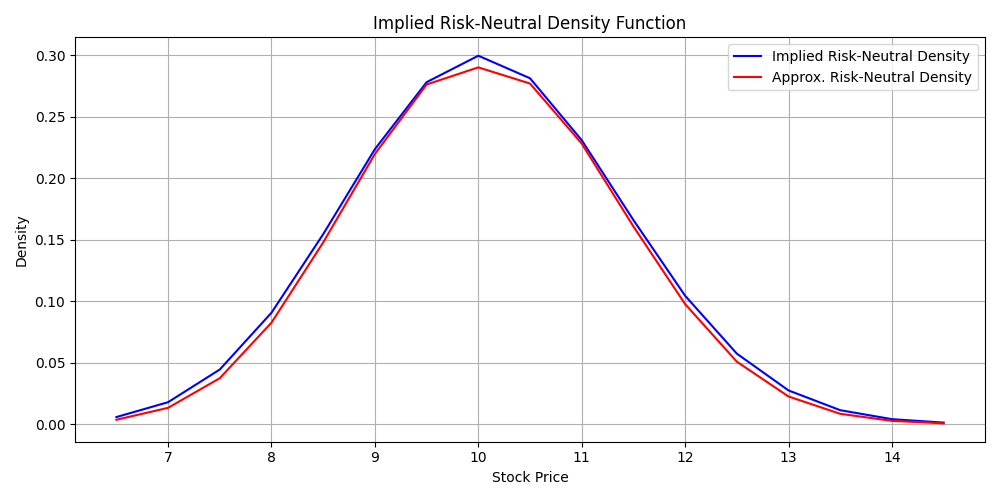
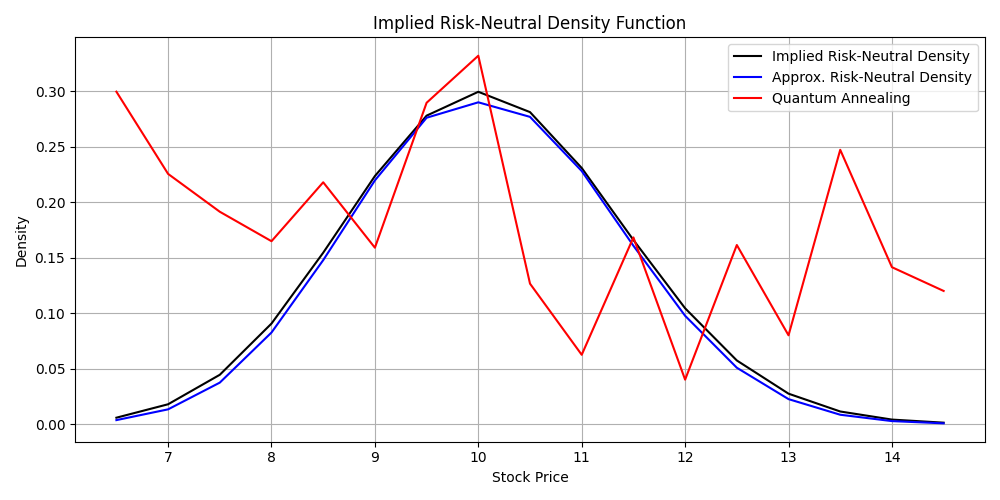
fixes to work with simulated annealing

diff --git a/quantum_arbitrage/solvers/dwave_solver.py b/quantum_arbitrage/solvers/dwave_solver.py
@@ -1,16 +1,16 @@
 import numpy as np
 import pandas as pd
 from dwave.samplers import SimulatedAnnealingSampler
+from tqdm import tqdm
 
 from quantum_arbitrage.solvers.dwaveutils.dwaveutils import bl_lstsq
 from quantum_arbitrage.solvers.dwaveutils.dwaveutils.utils import Binary2Float
 
 
-def solve_qubo(Dimension, qubits, A, b):
-    # 6 qubits with integer solutions
-    # x1 = q1 + 2q2 - 4q3
-    # x = {{-1}, {2}}
-    # mininum -26
+def solve_qubo(Dimension, qubits, A, b, true_x, scale):
+    A = [[col * scale for col in row] for row in A]
+    b = [el * scale for el in b]
+    true_x = [el * scale for el in true_x]
 
     QM = np.zeros(((qubits + 1) * Dimension, (qubits + 1) * Dimension))
     ### Linear terms ###
@@ -26,8 +26,9 @@ def solve_qubo(Dimension, qubits, A, b):
                 po1 = (qubits + 1) * i + l
                 QM[po1][po1] = QM[po1][po1] + cef1 - cef2
 
+    print('Generating first quadratic term...')
     ### First quadratic term ###
-    for k in range(Dimension):
+    for k in tqdm(range(Dimension)):
         for i in range(Dimension):
             for l in range(qubits):
                 qcef = pow(2, l + qubits + 1) * pow(A[k][i], 2)
@@ -41,8 +42,9 @@ def solve_qubo(Dimension, qubits, A, b):
                     po2 = (qubits + 1) * i + l2
                     QM[po1][po2] = QM[po1][po2] + qcef
 
+    print('\n\nGenerating second quadratic term...')
     ### Second quadratic term ###
-    for k in range(Dimension):
+    for k in tqdm(range(Dimension)):
         for i in range(Dimension - 1):
             for j in range(i + 1, Dimension):
                 qcef = pow(2, 2 * qubits + 1) * A[k][i] * A[k][j]
@@ -64,85 +66,41 @@ def solve_qubo(Dimension, qubits, A, b):
                         po2 = (qubits + 1) * j + l2
                         QM[po1][po2] = QM[po1][po2] + qcef
 
-    # Print Matrix Q
-    print("# Matrix Q is")
-    print(QM)
-    print("\nMinimum energy is ", -np.dot(b, b))
-    print("\n")
-
-    # Print Python code for the run in D-Wave quantum processing unit
-    print("Running code for D-Wave:\n")
-    print("from dwave.system import DWaveSampler, EmbeddingComposite")
-    print("sampler_auto = EmbeddingComposite(DWaveSampler(solver={'qpu': True}))\n")
-    print("linear = {", end="")
-    for i in range((qubits + 1) * Dimension - 1):
-        linear = i + 1
-        print("('q", linear, "','q", linear, "'):", format(QM[i][i]), sep='', end=", ")
-    print("('q", (qubits + 1) * Dimension, "','q", (qubits + 1) * Dimension, "'):",
-          format(QM[(qubits + 1) * Dimension - 1][(qubits + 1) * Dimension - 1]), "}", sep='')
-
-    print("\nquadratic = {", end="")
-    for i in range((qubits + 1) * Dimension - 1):
-        for j in range(i + 1, (qubits + 1) * Dimension):
-            qdrt1 = i + 1
-            qdrt2 = j + 1
-            if i == (qubits + 1) * Dimension - 2 and j == (qubits + 1) * Dimension - 1:
-                print("('q", qdrt1, "','q", qdrt2, "'):", format(QM[i][j]), "}", sep='')
-            else:
-                print("('q", qdrt1, "','q", qdrt2, "'):", format(QM[i][j]), sep='', end=", ")
-
-    print("\nQ = dict(linear)")
-    print("Q.update(quadratic)\n")
-
-    qa_iter = 1000
-    print("sampleset = sampler_auto.sample_qubo(Q, num_reads=", qa_iter, ")", sep="")
-    print("print(sampleset)")
-
     # sampler_auto = EmbeddingComposite(DWaveSampler(solver={'qpu': True}))
     sampler_auto = SimulatedAnnealingSampler()
 
-    linear = {('q1', 'q1'): 26.0, ('q2', 'q2'): 72.0, ('q3', 'q3'): 96.0, ('q4', 'q4'): -13.0, ('q5', 'q5'): -16.0,
-              ('q6', 'q6'): 152.0}
+    Q = {}
+    epsilon = 1e-10  # tiny bias to force inclusion
+    for i in range(QM.shape[0]):
+        # add linear term, if zero add epsilon
+        val = QM[i][i]
+        if val == 0:
+            val = epsilon
+        Q[(f'q{i}', f'q{i}')] = val
+        for j in range(i + 1, QM.shape[1]):
+            if QM[i][j] != 0:
+                Q[(f'q{i}', f'q{j}')] = QM[i][j]
 
-    quadratic = {('q1', 'q2'): 40.0, ('q1', 'q3'): -80.0, ('q1', 'q4'): 2.0, ('q1', 'q5'): 4.0, ('q1', 'q6'): -8.0,
-                 ('q2', 'q3'): -160.0, ('q2', 'q4'): 4.0, ('q2', 'q5'): 8.0, ('q2', 'q6'): -16.0, ('q3', 'q4'): -8.0,
-                 ('q3', 'q5'): -16.0, ('q3', 'q6'): 32.0, ('q4', 'q5'): 20.0, ('q4', 'q6'): -40.0, ('q5', 'q6'): -80.0}
-
-    Q = dict(linear)
-    Q.update(quadratic)
-
-    sampleset = sampler_auto.sample_qubo(Q, num_reads=1000)
-    print(sampleset)
-
-    # set the bit value to discrete the actual value as a fixed point
-    num_bits = 4
-    bit_value = bl_lstsq.get_bit_value(num_bits, fixed_point=True)
-    # discretized version of matrix `A`
-    A_discrete = bl_lstsq.discretize_matrix(A, bit_value)
+    print('\n\nSolving QUBO with Simulated annealing sampler...')
     # number of reads for Simulated annealing (SA) or Quantum annealing (QA)
     num_reads = 1000
+    sampleset = sampler_auto.sample_qubo(Q, num_reads=num_reads)
 
     # convert sampleset and its aggregate version to dataframe
     sampleset_pd = sampleset.to_pandas_dataframe()
     sampleset_pd_agg = sampleset.aggregate().to_pandas_dataframe()
     num_states = len(sampleset_pd_agg)
     num_x_entry = Dimension
-    num_q_entry = A_discrete.shape[1]
-    # concatenate `sampleset_pd` and `x_at_each_read`
-    x_at_each_read = pd.DataFrame(
-        np.row_stack(
-            [(sampleset_pd.iloc[i][:num_q_entry]).values.reshape(
-                (num_x_entry, -1)) @ bit_value
-             for i in range(num_reads)]
-        ),
-        columns=['x' + str(i) for i in range(num_x_entry)]
-    )
-    sampleset_pd = pd.concat([sampleset_pd, x_at_each_read], axis=1)
-    sampleset_pd.rename(
-        columns=lambda c: c if isinstance(c, str) else 'q' + str(c),
-        inplace=True
-    )
-    # concatnate `sampleset_pd_agg` and `x_at_each_state`
+    qubit_cols = [col for col in sampleset_pd.columns if col.startswith('q')]
+    num_q_entry = len(qubit_cols)
+
+    # set the bit value to discrete the actual value as a fixed point
+    num_bits = num_q_entry // Dimension
+    bit_value = bl_lstsq.get_bit_value(num_bits, fixed_point=True, sign="p")
+    # discretized version of matrix `A`
+    A_discrete = bl_lstsq.discretize_matrix(A, bit_value)
+
+    # concatenate `sampleset_pd_agg` and `x_at_each_state`
     x_at_each_state = pd.DataFrame(
         np.row_stack(
             [(sampleset_pd_agg.iloc[i][:num_q_entry]).values.reshape(
@@ -178,4 +136,41 @@ def solve_qubo(Dimension, qubits, A, b):
     ).sum() > 0.5  # bool
     expected_x_discrete = Binary2Float.to_fixed_point(np.array(tmp_q), bit_value)
 
-    return sampleset
+    true_b = b
+    print('=' * 50)
+    print('true A:', [[float(x) for x in row] for row in A])
+    print('true x:', [float(x) for x in true_x])
+    print('true b:', [float(x) for x in true_b])
+    print('bit value:', bit_value)
+
+    print('=' * 50)
+    print('# Simulated annealing/Quantum annealing')
+    print('lowest energy state x:')
+    print(lowest_x)
+    print('lowest energy state q:')
+    print(lowest_q)
+    print('b:', A @ lowest_x)
+    print('2-norm:', np.linalg.norm(A @ lowest_x - true_b))
+    print('-' * 50)
+    print('most frequently occurring x:')
+    print(frequent_x)
+    print('most frequently occurring q:')
+    print(frequent_q)
+    print('b:', A @ frequent_x)
+    print('2-norm:', np.linalg.norm(A @ frequent_x - true_b))
+    print('-' * 50)
+    print('expected x (from real value):')
+    print(expected_x)
+    print('b:', A @ expected_x)
+    print('2-norm:', np.linalg.norm(A @ expected_x - true_b))
+    print('-' * 50)
+    print('expected x (from discrete value):')
+    print(expected_x_discrete)
+    print('b:', A @ expected_x_discrete)
+    print('2-norm:', np.linalg.norm(A @ expected_x_discrete - true_b))
+    print('-' * 50)
+    print('Sample set:')
+    print(sampleset_pd_agg.sort_values('num_occurrences', ascending=False))
+    print('=' * 50)
+
+    return [x / scale for x in lowest_x]

diff --git a/quantum_arbitrage/solvers/dwaveutils/dwaveutils/bl_lstsq/utils.py b/quantum_arbitrage/solvers/dwaveutils/dwaveutils/bl_lstsq/utils.py
@@ -24,11 +24,11 @@ def get_bit_value(num_bits: int, fixed_point: int = 0, sign: Literal["pn", "p", 
         sign = "pn"
 
     if sign == "pn":
-        return np.array([-(2 ** fixed_point) if i == 0 else 2.0 ** (fixed_point - i) for i in range(0, num_bits)])
+        return np.array([-(2 ** fixed_point) if i == 0 else 2.0 ** (fixed_point + i) for i in range(0, num_bits)])
     elif sign == "p":
-        return np.array([2.0 ** (fixed_point - i) for i in range(1, num_bits + 1)])
+        return np.array([2.0 ** (i/2) for i in range(0, num_bits)])
     else:
-        return np.array([-(2.0 ** (fixed_point - i)) for i in range(1, num_bits + 1)])
+        return np.array([-(2.0 ** (fixed_point + i)) for i in range(0, num_bits + 1)])
 
 
 def get_qubo(

diff --git a/quantum_arbitrage/plot_results.py b/quantum_arbitrage/plot_results.py
@@ -1,11 +1,12 @@
 import matplotlib.pyplot as plt
 
 
-def plot(S_T, g, f):
+def plot(S_T, g, f, q_f):
     # Plot result
     plt.figure(figsize=(10, 5))
-    plt.plot(S_T, g, label='Implied Risk-Neutral Density', color='blue')
-    plt.plot(S_T, f[1:-1], label='Approx. Risk-Neutral Density', color='red')
+    plt.plot(S_T, g, label='Implied Risk-Neutral Density', color='black')
+    plt.plot(S_T, f[1:-1], label='Approx. Risk-Neutral Density', color='blue')
+    plt.plot(S_T, q_f[1:-1], label='Quantum Annealing', color='red')
     plt.xlabel("Stock Price")
     plt.ylabel("Density")
     plt.title("Implied Risk-Neutral Density Function")

diff --git a/quantum_arbitrage/main.py b/quantum_arbitrage/main.py
@@ -30,10 +30,9 @@ Ki, S_T, A, C = get_problem_formulation(S0, r, implied_vols, K, T, delta_K)
 
 g = breeden_litzenberger_solve_system(Ki, delta_K, r, T, C)
 f = numpy_solve_system(A, C)
+q_f = solve_qubo(len(f), 7, A, C, f, 100)
 
-q_f = solve_qubo(len(f), 2, A, C)
-
-plot(S_T, g, f)
+plot(S_T, g, f, q_f)
 
 if all([x > 0 for x in f]):
     print('The implied density vectory is strictly positive: no arbitrage.')
